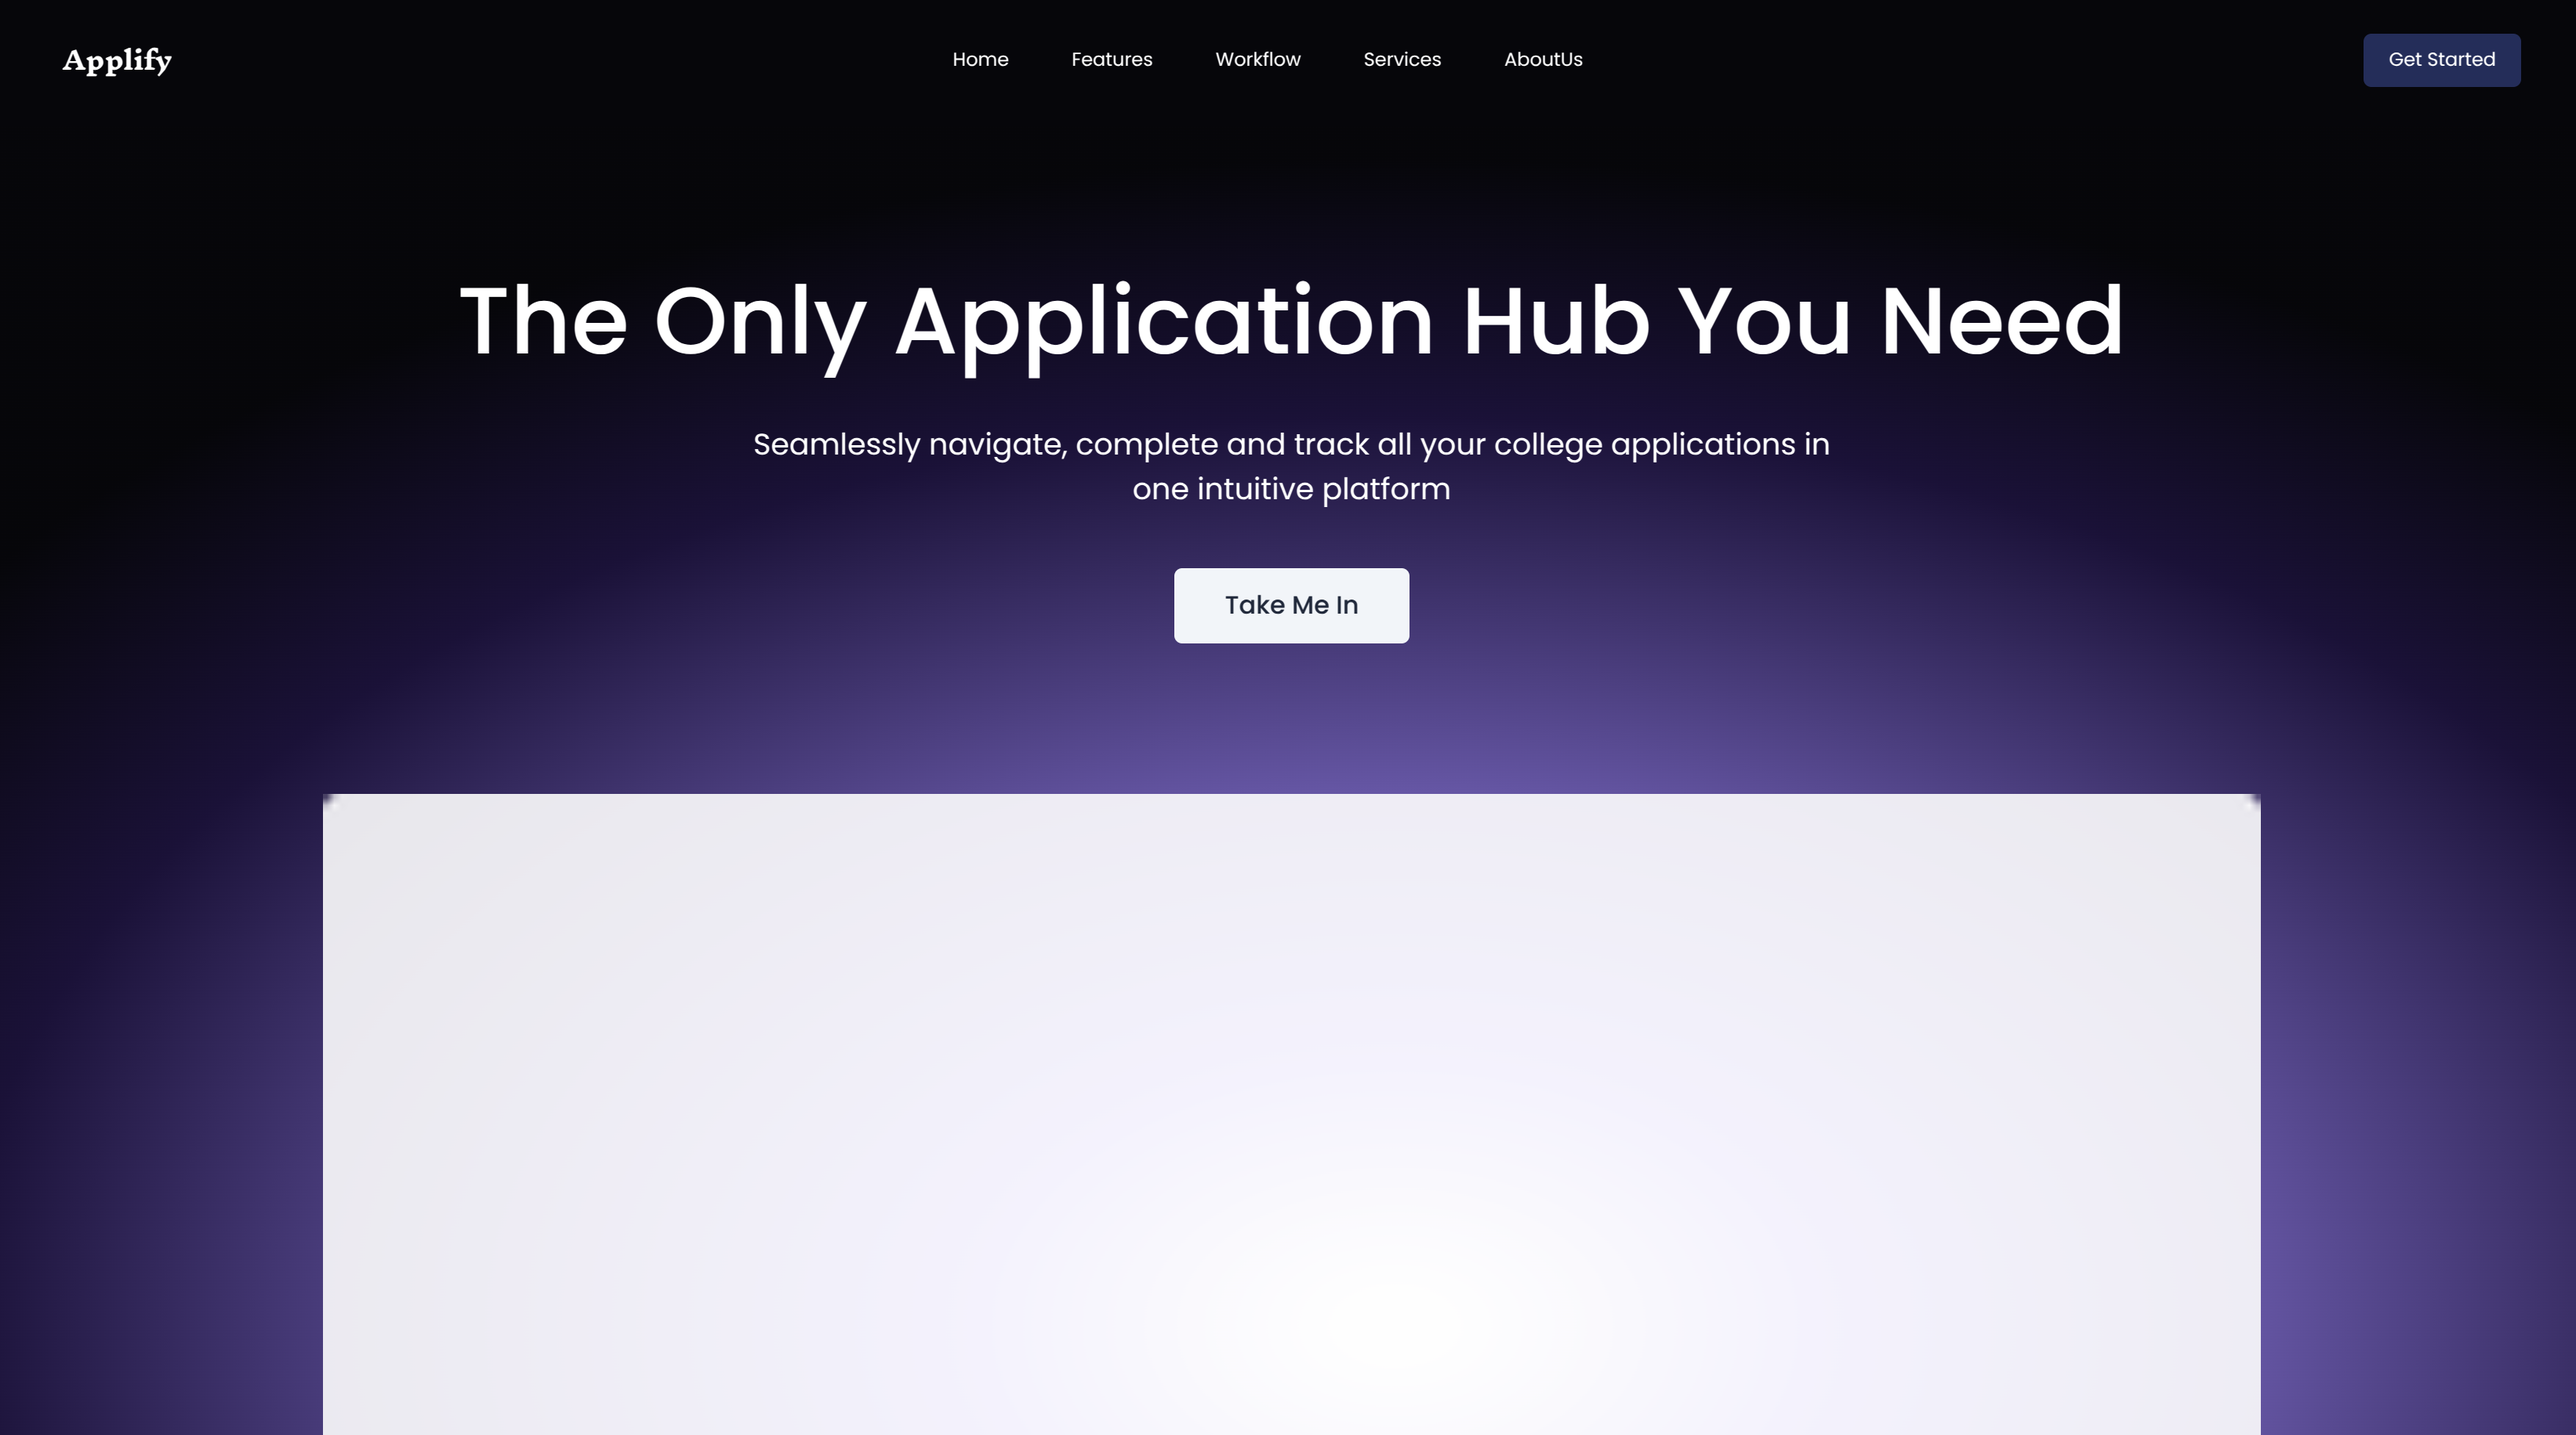
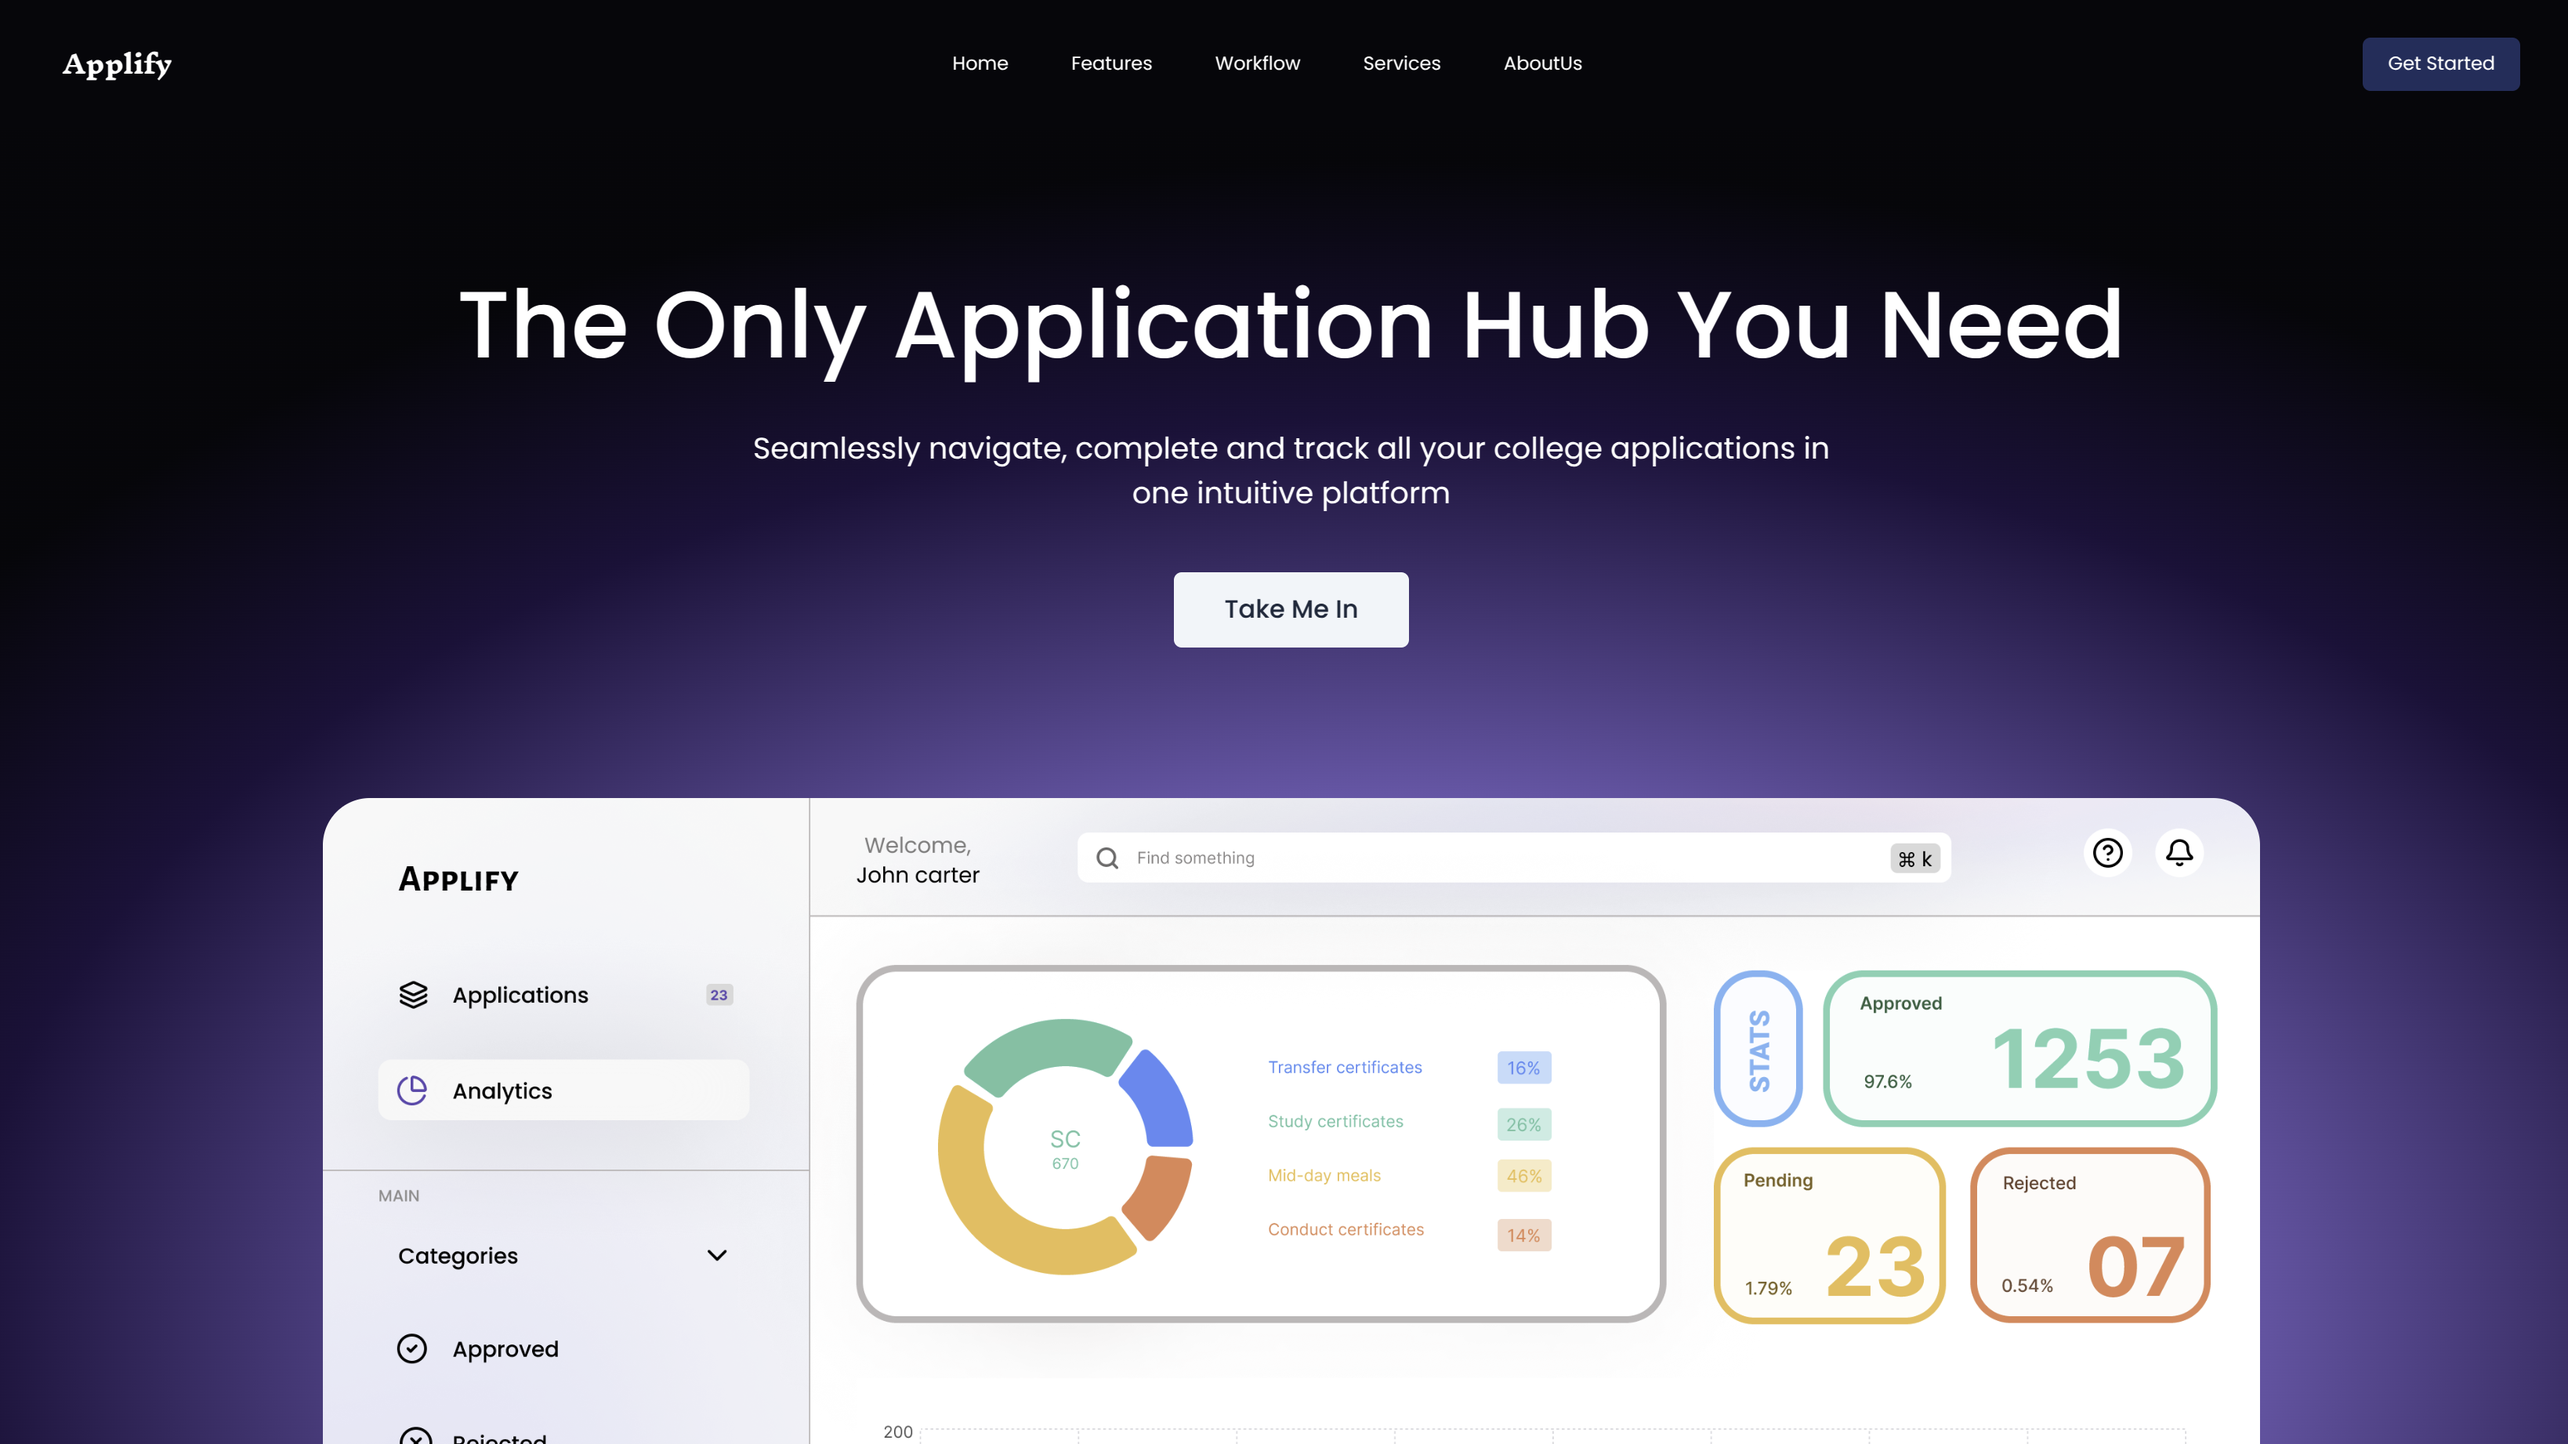
updated project thumbnail

diff --git a/src/components/Projects.tsx b/src/components/Projects.tsx
@@ -5,7 +5,7 @@ const Projects = () => {
 
     const projects = [
         {
-            name: "FormForge",
+            name: "Applify",
             description: "A seamless platform for managing student and faculty applications. Enabled users to submit various academic and administrative applications seamlessly. Developed with Next.js and TypeScript, using Prisma for efficient PostgreSQL management.",
             image: "applify.png",
             link: "https://applify1234.vercel.app/",
